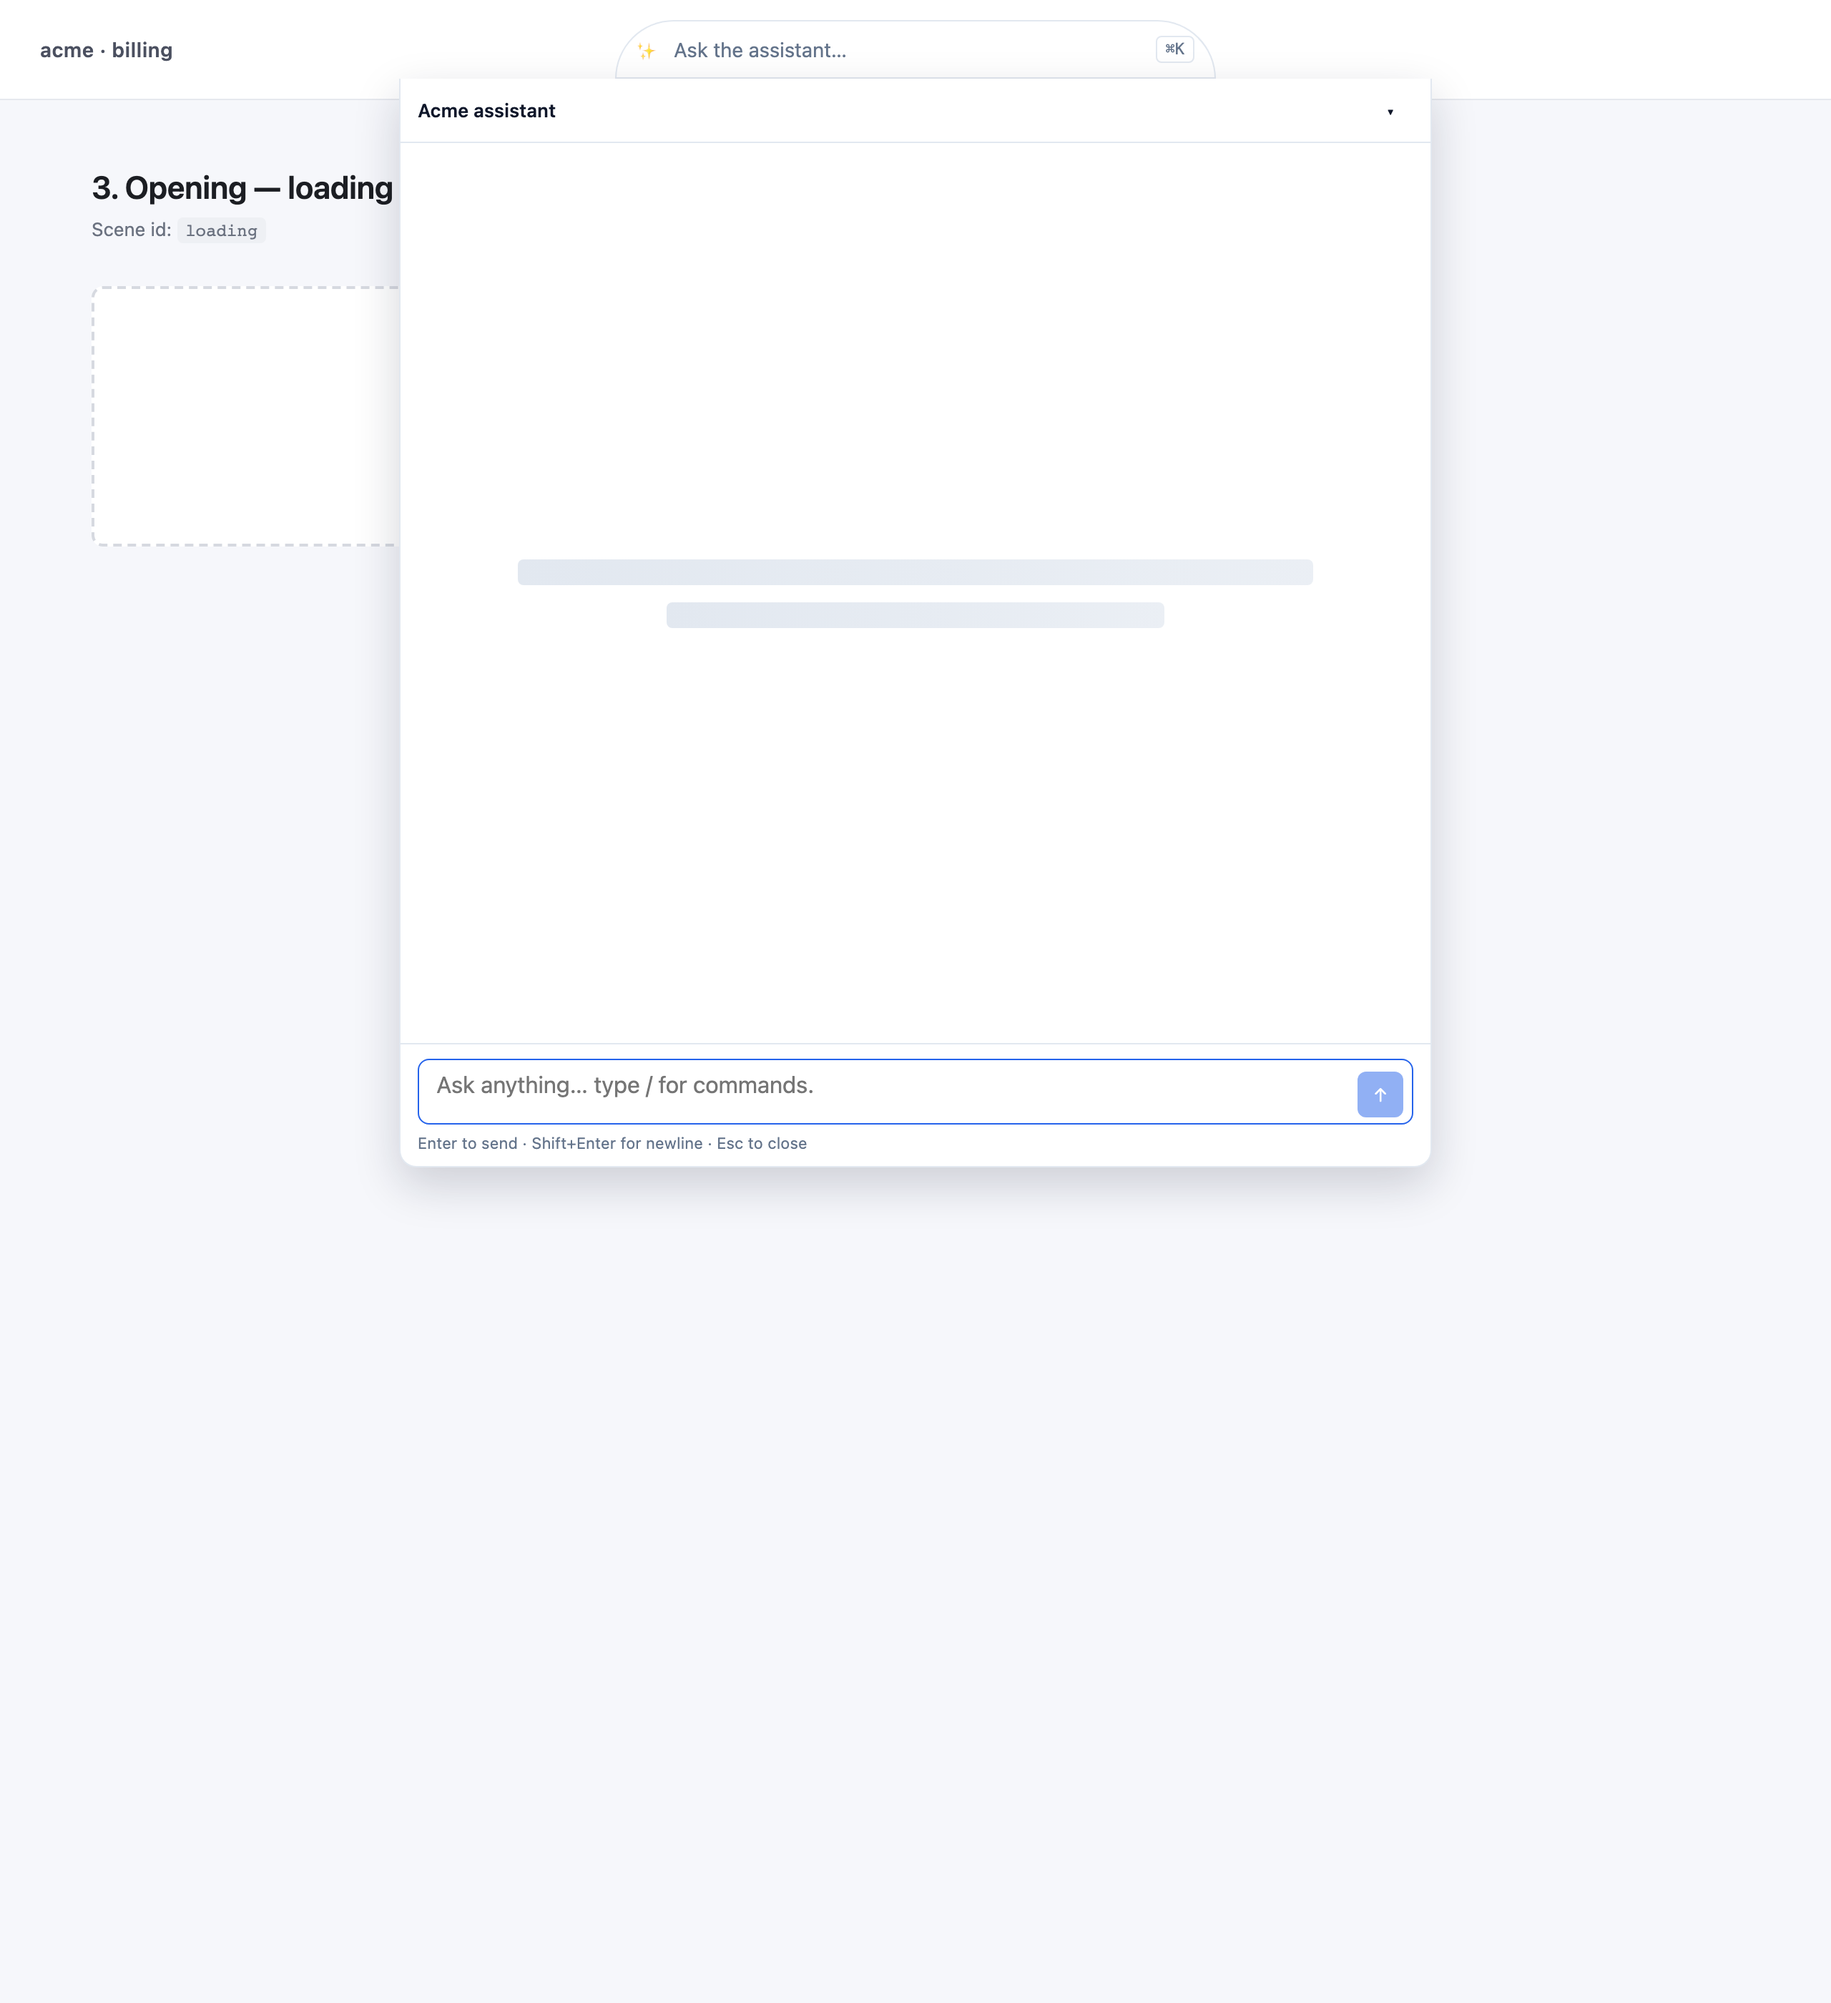
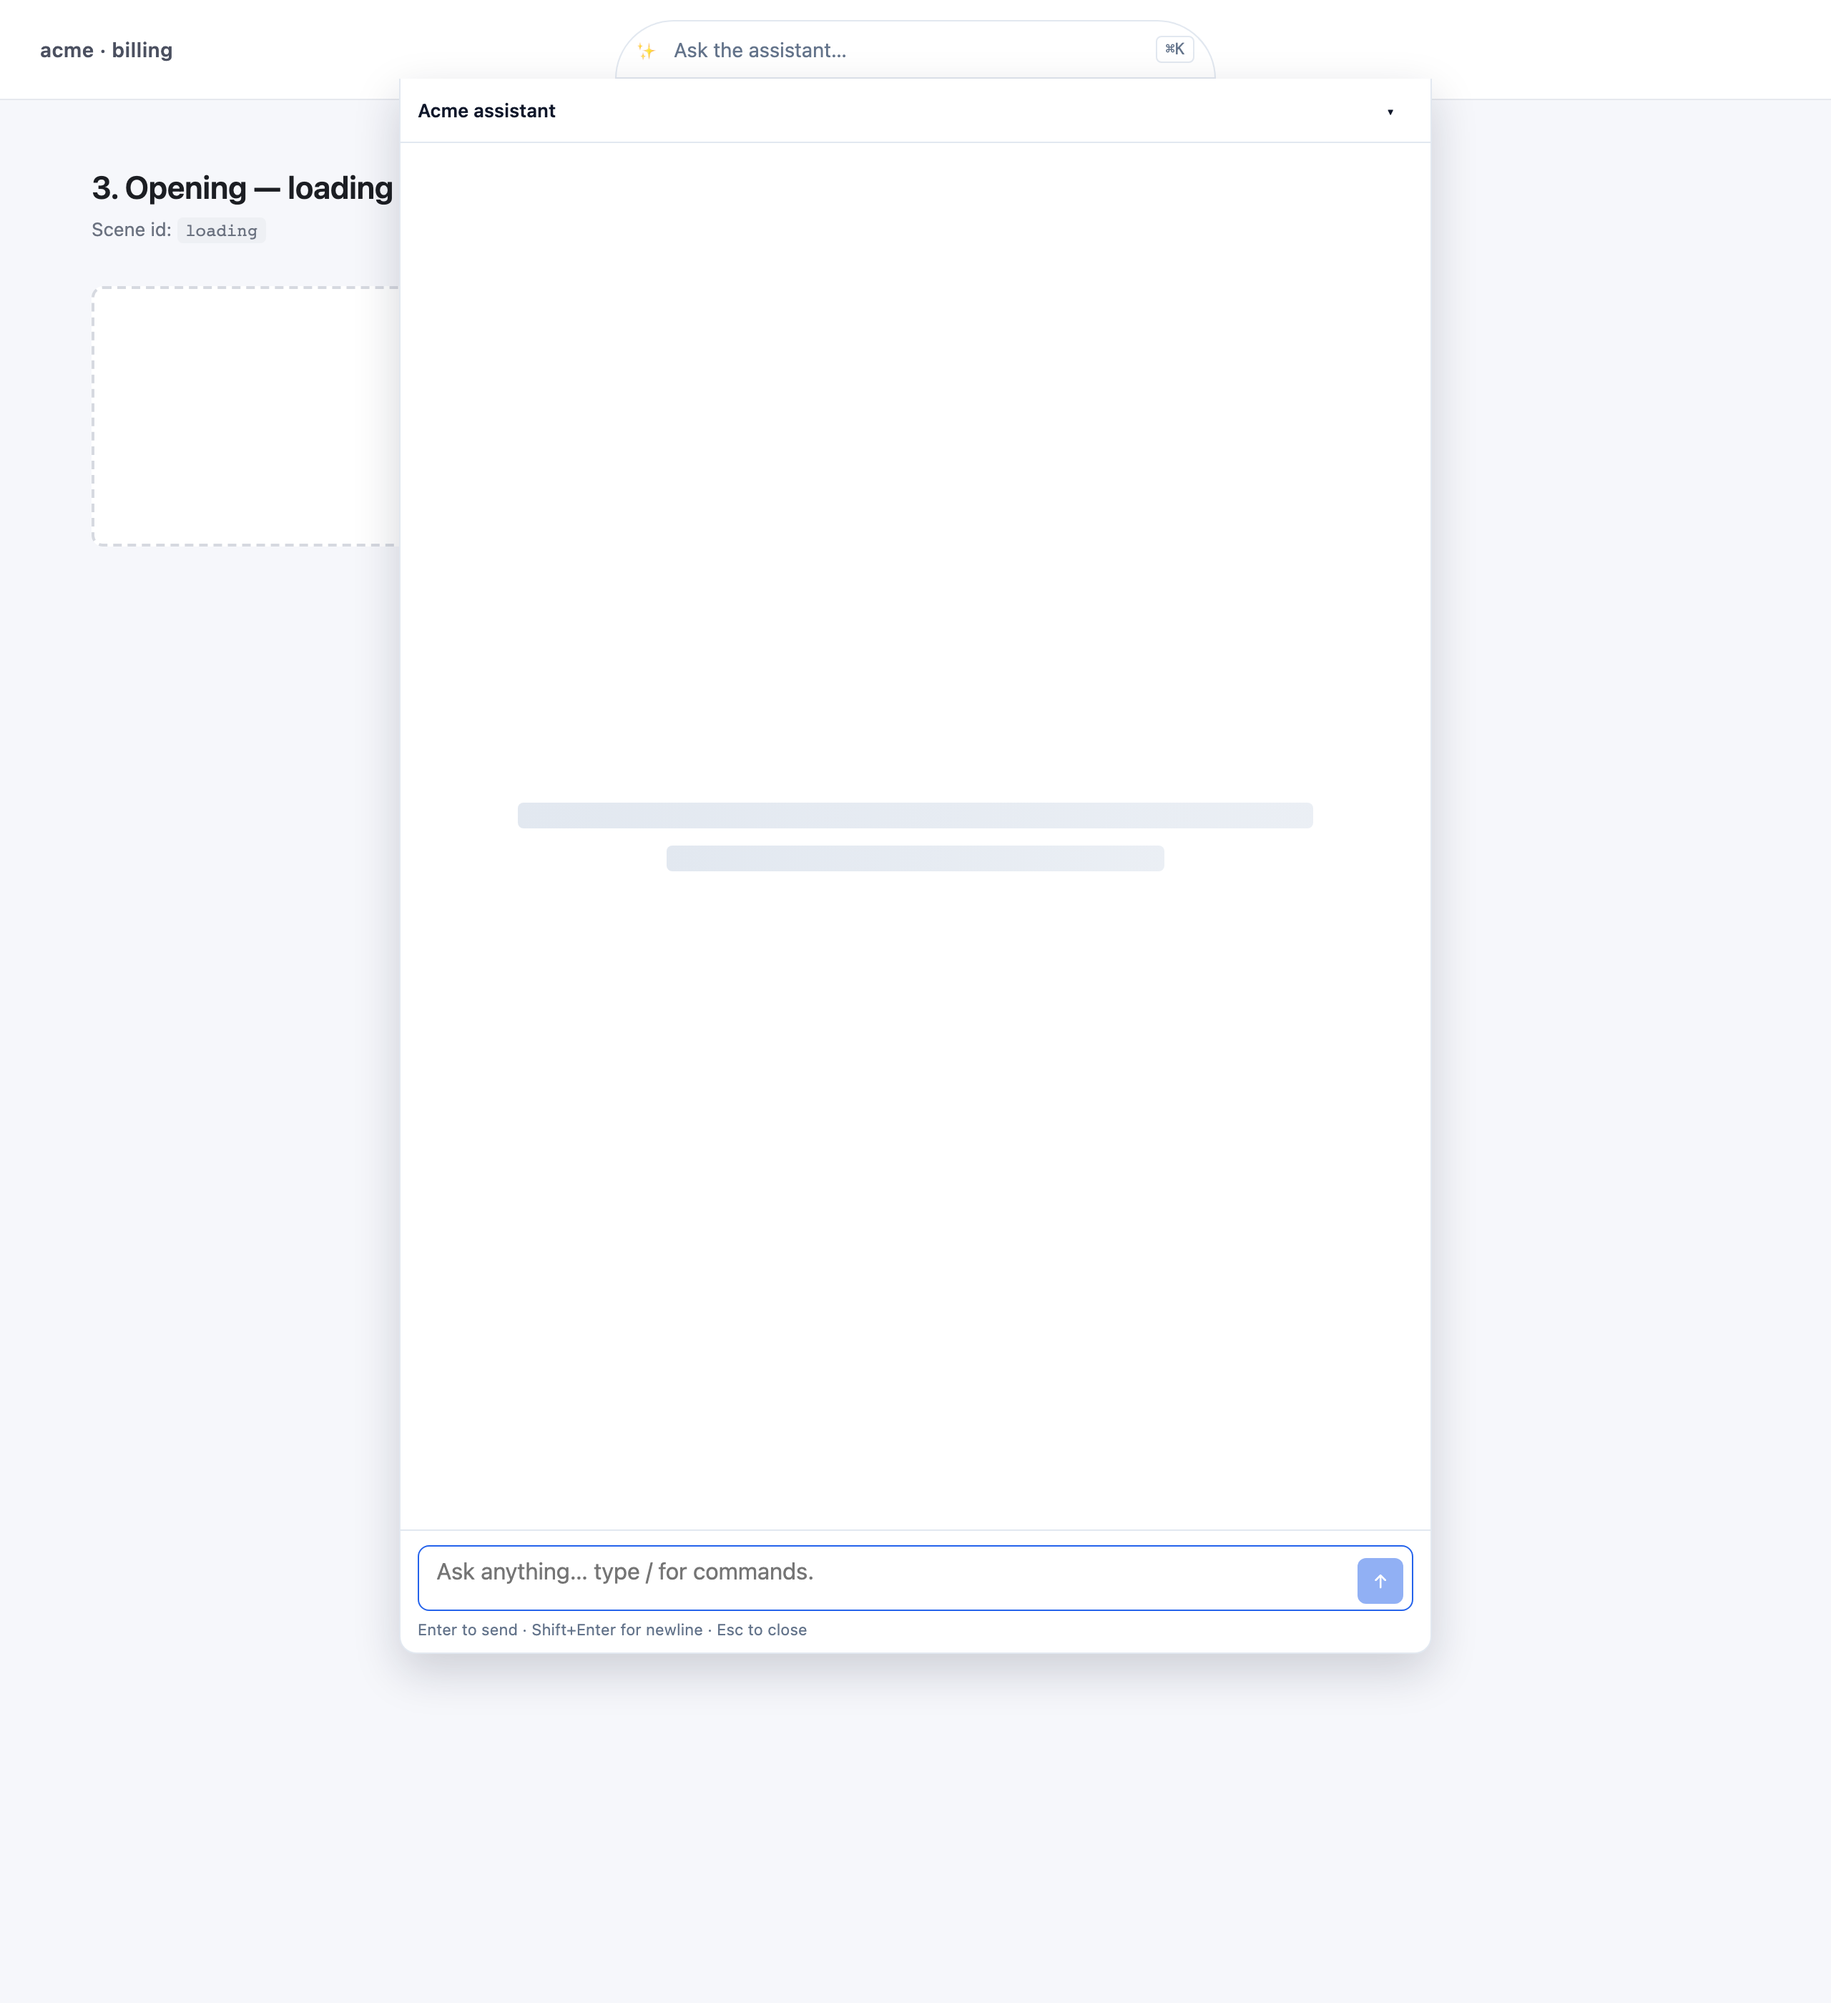
fix(visuals): fully-rendered charts + cleaner labels in screenshots
Five visual screenshots had real rendering issues; all root-caused
to library / fixture defaults and fixed without changing the
public API.

1. Line / area / bar / scatter charts captured ~10% of the way
   through their reveal.  Recharts animates via react-smooth
   (requestAnimationFrame), not CSS, so the global
   ``animation-duration: 0`` style the screenshot harness
   injects doesn't disable it.  Added
   ``isAnimationActive={false}`` to all four series components.
   The donut already had it, which is why pie was the only
   chart whose data drew fully.

2. Donut labels: dropped the outside-callout label prop on
   ``<Pie>``.  At small chart heights the inline ``31-60 days``
   label collided with the legend entry directly below it,
   and the ``0-30 days`` callout clipped the chart frame.
   The legend already lists every bucket and the tooltip
   shows per-slice values on hover.

3. Image preview: the placeholder ``data:`` URI was a literal
   1×1 transparent PNG — technically valid but read as an
   empty box in screenshots.  Swapped to a 32×20 PNG that
   looks like a small ascending bar chart, matching the
   prompt copy ("Here is the chart from the board deck").

4. Mixed visual table cut off: ``.aaui-panel`` was capped at
   760px in demo.css; the KPI + bar chart + table scene
   needs ~950px, so the table fell below the visible area
   and ``fullPage: true`` couldn't recover it (the panel
   uses ``overflow: hidden`` with an internally-scrolling
[…]

diff --git a/src/visuals/ChartVisual.tsx b/src/visuals/ChartVisual.tsx
@@ -82,6 +82,13 @@ function renderBar(spec: ChartSpec, colorFor: (i: number) => string) {
           dataKey={k}
           fill={colorFor(i)}
           stackId={spec.stacked ? 'all' : undefined}
+          // Recharts' animation is JS-driven (react-smooth /
+          // requestAnimationFrame), not CSS, so the
+          // global ``animation-duration: 0`` style we inject
+          // for screenshots doesn't disable it.  Turn it off
+          // explicitly so static snapshots capture the full
+          // series, not a partially-drawn frame.
+          isAnimationActive={false}
         />
       ))}
     </BarChart>
@@ -104,6 +111,8 @@ function renderLine(spec: ChartSpec, colorFor: (i: number) => string) {
           stroke={colorFor(i)}
           dot={{ r: 3 }}
           strokeWidth={2}
+          // See Bar above for the rationale.
+          isAnimationActive={false}
         />
       ))}
     </LineChart>
@@ -127,6 +136,8 @@ function renderArea(spec: ChartSpec, colorFor: (i: number) => string) {
           fill={colorFor(i)}
           fillOpacity={0.25}
           stackId={spec.stacked ? 'all' : undefined}
+          // See Bar above for the rationale.
+          isAnimationActive={false}
         />
       ))}
     </AreaChart>
@@ -144,7 +155,12 @@ function renderScatter(spec: ChartSpec, colorFor: (i: number) => string) {
       <XAxis dataKey={spec.x_key} label={axisLabel(spec.x_label, 'bottom')} />
       <YAxis dataKey={yKey} label={axisLabel(spec.y_label, 'left')} />
       <Tooltip />
-      <Scatter data={spec.data} fill={colorFor(0)} />
+      <Scatter
+        data={spec.data}
+        fill={colorFor(0)}
+        // See Bar above for the rationale.
+        isAnimationActive={false}
+      />
     </ScatterChart>
   )
 }
@@ -171,9 +187,11 @@ function renderPie(spec: ChartSpec, colorFor: (i: number) => string) {
         cy="50%"
         outerRadius={outerRadius}
         innerRadius={innerRadius}
-        label={(entry: { label?: string; name?: string }) =>
-          entry.label ?? entry.name ?? ''
-        }
+        // No outside-callout labels: they collide with the legend
+        // (same text strings stacked on top of each other at
+        // small chart heights) and clip the chart frame at the
+        // top.  The legend already lists every bucket, and the
+        // tooltip shows per-slice values on hover.
         isAnimationActive={false}
       >
         {(spec.data as Array<unknown>).map((_, i) => (

diff --git a/demo/scenes.ts b/demo/scenes.ts
@@ -387,9 +387,13 @@ const visualKpi = (): ChatMessage[] => [
   },
 ]
 
-// 1×1 transparent PNG — the smallest valid base64 image.
+// Small 32×20 PNG: four ascending blue bars on a grey background.
+// Stand-in for an uploaded chart image in screenshots — the 1×1
+// transparent placeholder we shipped originally was technically
+// correct but rendered as an empty box, which read in screenshots
+// as a broken image rather than a successful upload preview.
 const TINY_PNG_DATA_URI =
[2 lines of base64/hex data omitted]
 
 const visualMixed = (): ChatMessage[] => [
   {

diff --git a/demo/demo.css b/demo/demo.css
@@ -136,7 +136,10 @@ body {
 /* The lib's `.aaui-panel` defaults to 500px tall — fine for short
    exchanges, but the screenshot scenes include chart visuals
    (~280px each) and need more room so the chart + surrounding
-   bubbles fit in one frame.  Applies only to the demo. */
+   bubbles fit in one frame.  Applies only to the demo.
+   1100px accommodates the worst case (the `visual-mixed` scene:
+   KPI + bar chart + three-row table + narration ≈ 950px of
+   content).  Earlier 760px clipped the table off the bottom. */
 .demo-shell__bar-wrap > .aaui-panel {
-  height: 760px;
+  height: 1100px;
 }
